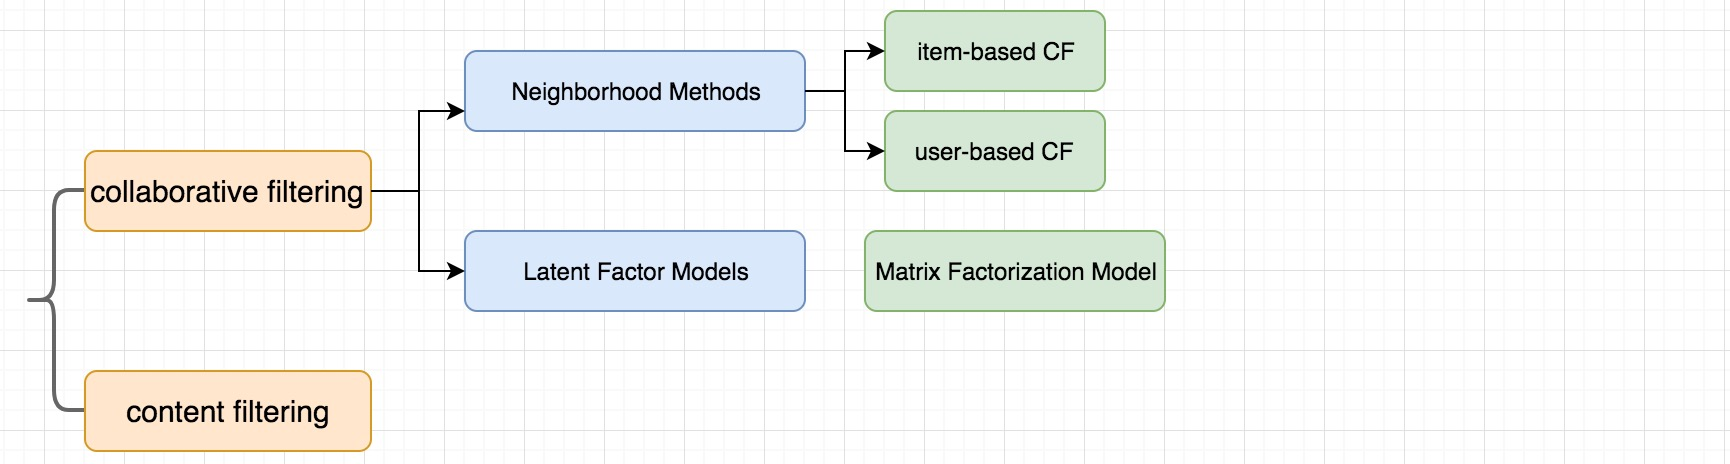
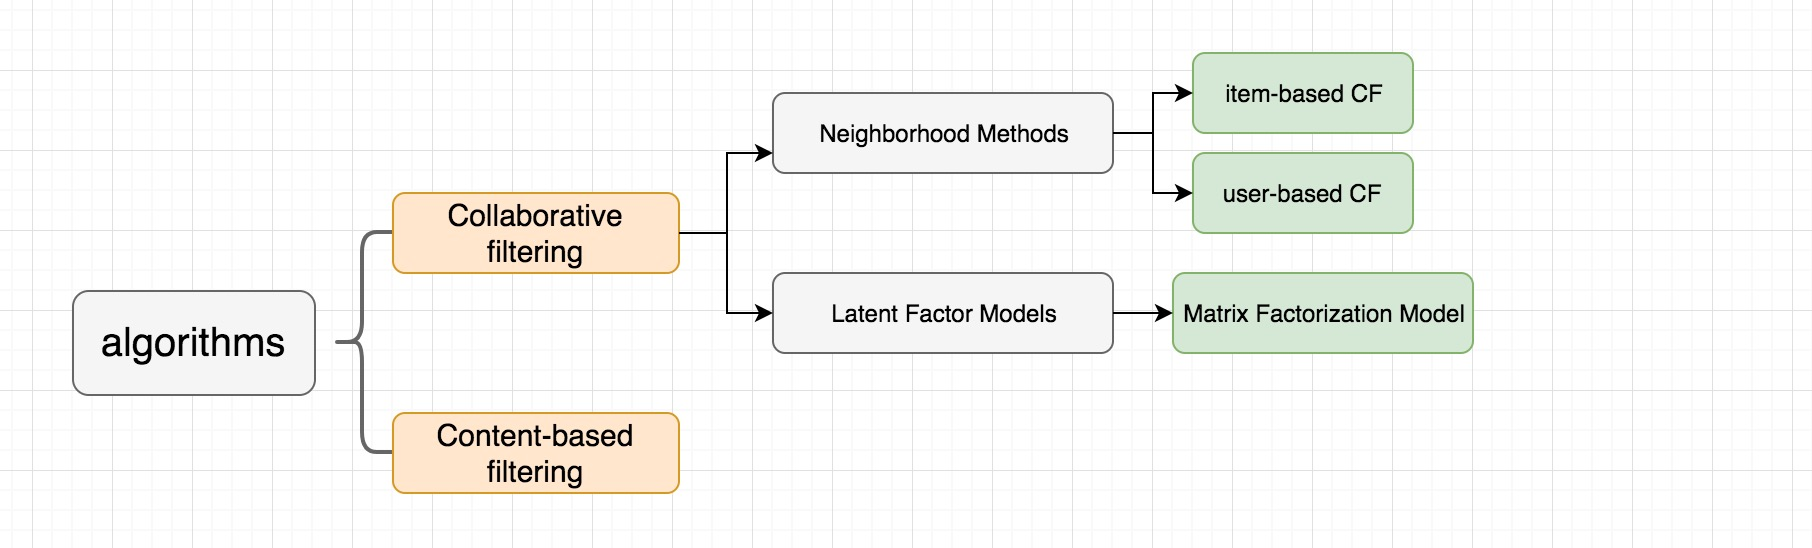
optimize post

diff --git a/_posts/2017-10-18-推荐系统常用算法：协同过滤之Neighborhood-Based-CF-算法.md b/_posts/2017-10-18-推荐系统常用算法：协同过滤之Neighborhood-Based-CF-算法.md
@@ -1,0 +1,81 @@
+---
+title: 推荐系统常用算法：协同过滤之 Neighborhood-Based CF 算法
+date: 2017-10-18 09:15:00
+tags:
+- Recommender
+- Collaborative Filtering
+---
+
+上次简单聊了下推荐系统的基本概念和用户行为的一些知识，今天来聊下推荐系统中常用的算法及应用场景。
+![](/assets/images/recommender/alg.jpeg)
+如图所示，推荐系统算法分为两大类：Content-based Filtering（基于内容的过滤） & Collaborative Filtering（协同过滤）。
+
+协同过滤算是使用非常广泛的推荐系统算法，它通过收集 & 分析大量的<span style="color:red">用户行为数据</span>来预测用户对某个内容的喜好程度。它基于这样的假设：用户将会喜欢与过去喜欢过的 items 相似的 items。
+
+场景方面，Facebook、LinkedIn 以及一些别的社交网络公司使用协同过滤给用户推荐好友、群组等，Twitter 给用户推荐 follow 人选等，Amazon、Netflix、 Youtube 给用户推荐一些用户可能感兴趣的物品。
+
+[上篇文章](https://qimiguang.github.io/2017/10/19/%E6%8E%A8%E8%8D%90%E7%B3%BB%E7%BB%9F%E7%AE%80%E4%BB%8B/)提到，用户行为数据又分显性反馈和隐性反馈。协同过滤对这两种的处理方式也有不同。
+
+具体来说，协同过滤又分为两种类型：Neighborhood-Based CF（基于领域的方法）、Latent Factor Models（隐语义模型）。由于所涉及到的知识点很多，我们先来了解下协同过滤分支的 Neighborhood-Based CF 算法。
+
+基于领域的方法包含 user-based CF（基于用户的协同过滤） & item-based CF（基于物品的协同过滤）
+
+# User-based CF
+基于用户的协同过滤算法：给用户推荐和他兴趣相似的其他用户喜欢的物品。它是推荐系统中最古老的算法，当然现在在大部分场景中已经被 Item-based CF / Latent Factor Models 算法替代了。具体来说，该算法包含两步：
+
+* 找出和目标用户有最多<span style="color:red">相似兴趣度</span>的用户集合
+* 找出该集合中的用户喜欢的，但是目标用户没听过的物品，按照优先级推荐给目标用户
+
+![](/assets/images/recommender/user-based.jpeg)
+上图是 User-based CF 的一个简单公式，其中 p(u,i) 即预测用户 u 对 物品 i 的喜好程度，W<sub>uv</sub> 表示用户 u 和用户 v 的相似度，r<sub>vi</sub> 表示用户 v 对物品 i 的喜好程度。
+
+这里提到一个相似度的问题，数学上有很多种方式计算相似度，包括欧式距离、皮尔逊相关系数、余弦相似度、Jaccard相关系数、汉明距离甚至 TF-IDF 等等等等，不同的场景使用不同的相似度算法，这里就先不一一展开了（以后可能会专门写篇博客谈这个问题吧。。。）。简单来说，**用户相似度取决于两个用户同时对多少物品有过行为。**
+
+# Item-based CF
+基于物品的协同过滤算法：给用户推荐和他之前喜欢的物品相似的物品。它也是目前用的<span style="color:red">非常广泛</span>的算法，和 User-based CF 类似，该算法也主要分为两步：
+
+* 计算物品之间的相似度
+* 根据物品的相似度和用户历史行为给用户生成推荐列表
+
+**物品相似度取决于两个物品同时被多少 users 有过行为**。譬如《Doing Data Science》和《High Performance Spark》的相似度比《The VIENAM WAR》的高，因为有更多的人同时买过《Doing Data Science》&《High Performance Spark》。
+
+![](/assets/images/recommender/item-based.png)
+其中 :
+
+* P<sub></sub> 表示 user-u 对 item-i 的喜好程度
+* w<sub>ij</sub> 表示 item-i 和 item-j 的相似度
+* r<sub>ui</sub> 表示 user-u 对 item-i 的喜好程度（已有数据）。
+
+需要注意的是，物品之间的相似度是根据分析用户行为来计算的（item A is similar with item B 是因为有大量用户同时喜欢了两者），而不是通过物品本身的内容属性（如标题、出版社等具体的 features）。
+
+使用 Item-based CF 最典型的例子是 Amazon:
+![](/assets/images/recommender/amazon-recom.jpeg)
+
+## Evolution of the algorithm
+![](/assets/images/recommender/item-alg.jpg)
+**图1**为最简单的计算物品相关度的公式，分子为同时喜好 item-i & item-j 的用户数。
+
+但是图1存在一个问题，如果 item-j 是很热门的商品，导致很多喜欢 item-i 的用户都喜欢 item-j，这时 w<sub>ij</sub> 就会非常大。同样，几乎所有的物品都和 item-j 的相关度非常高，这显然是不合理的。**图2**中分母通过引入 N(j) 来对 item-j 的热度进行惩罚。
+
+如果 item-j 极度热门，上面的算法还是不够的。举个例子，《Harry Potter》非常火，买任何一本书的人都会购买它，即使通过图2的方法对它进行了惩罚，但是《Harry Potter》仍然会获得很高的相似度。这就是推荐系统领域著名的 [Harry Potter Problem](http://nkparimi.blogspot.jp/2010/01/harry-potter-problem.html)。如果需要进一步对热门物品惩罚，可以继续修改公式为**如图3**所示，通过调节参数 α，α 越大，惩罚力度越大，热门物品的相似度越低，整体结果的平均热门程度越低。
+
+同样的，Item-based CF 也需要考虑活跃用户（即一个活跃用户（专门做刷单）可能买了非常多的物品）的影响，活跃用户对物品相似度的贡献应该小于不活跃用户。**图4**为集合了该权重的算法。
+
+# Comparison
+可以看出，User-based CF 和 Item-based CF 思想其实有很多相似的地方，不同之处在于，User-based CF 是基于**用户和用户**之间的相似度来推荐，而 Item-based CF 是基于**物品和物品**之间的相似度来推荐。
+
+User-based CF 需要维护一个 user-user 的相似度矩阵，所以当用户增长很快／用户量很大的时候，维护 user-user 矩阵的代价就很大。
+Item-based CF 需要维护一个 item-item 的相似度矩阵，当物品数量增长很快／物品量很大的时候，维护 item-item 矩阵的代价就很大。
+
+所以视不同的场景，我们需要用不同的算法来实现。对于新闻类网站，物品的增长速度很快，那么实时维护 item-item 矩阵就变得很不实际，这时可以考虑使用 User-based CF。说白了，哪种算法的维护成本低就选用哪种。
+
+---
+
+但是现今互联网中，一般应用的 user 数量和 item 数量都会比较大，导致相似度矩阵的计算和维护成本高昂，研究员们又提出了一种新的算法 <span style="color:red">Latent Factor Models</span>.  我们下周再来聊这种算法。
+
+# REFERENCES
+[Recommender system in wikipedia](https://en.wikipedia.org/wiki/Recommender_system#Approaches)
+[Recommender Systems Handbook](http://www.springer.com/us/book/9780387858203)
+[Neighborhood-Based Collaborative Filtering](https://www.google.com/url?sa=t&rct=j&q=&esrc=s&source=web&cd=1&ved=0ahUKEwiV9OaFo6XXAhVGjZQKHYHSC8cQFggtMAA&url=http%3A%2F%2Fwww.springer.com%2Fcda%2Fcontent%2Fdocument%2Fcda_downloaddocument%2F9783319296579-c1.pdf%3FSGWID%3D0-0-45-1554478-p179516130&usg=AOvVaw15tMwXNsAAp8kp7_GlelXI)
+
+
